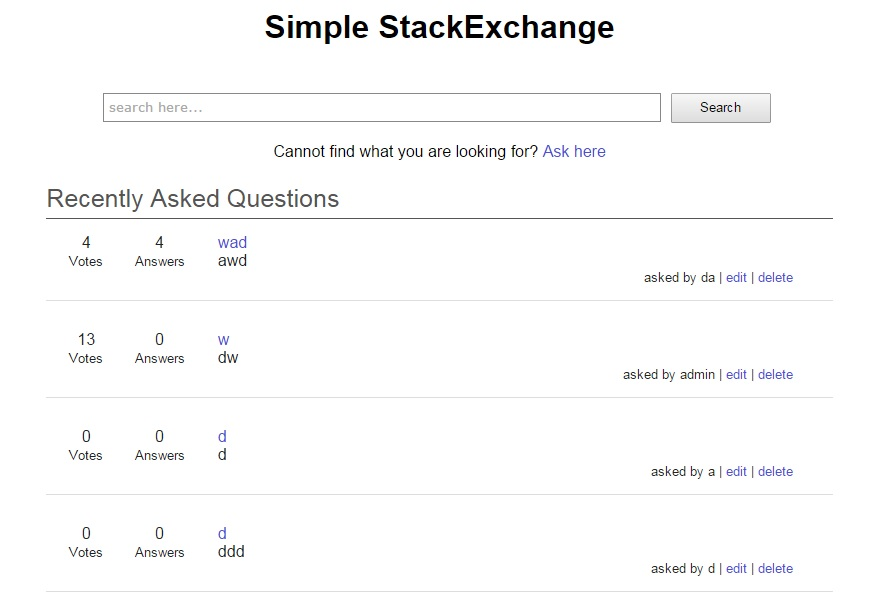
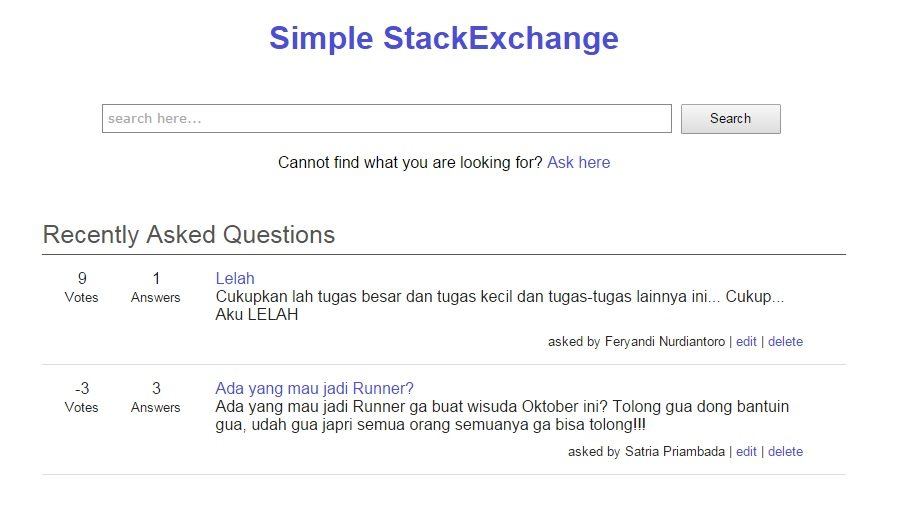
Fixing Bugs, Redirect Page for Convenient UX

diff --git a/css/style.css b/css/style.css
@@ -24,8 +24,13 @@ a {
   	width: 100%;
   	border-bottom: 1px #DDD solid;
 	color: #222;
-	margin-bottom: 15px;
 	box-sizing: border-box;
+}
+
+.question.negative,
+.qview.negative,
+.aview.negative {
+	background-color: #FFD0D0;
 }
 
 .question:hover,
@@ -48,6 +53,8 @@ a {
 	position: relative;
 	float: left;
 	background-image: url('/img/up.png');
+	-webkit-filter: opacity(35%);
+	filter: opacity(35%);
 	background-position: -10px -20px;
 	width: 100%;
 	height: 35px;
@@ -67,6 +74,8 @@ a {
 	position: relative;
 	float: left;	
 	background-image: url('/img/down.png');
+	-webkit-filter: opacity(35%);
+	filter: opacity(35%);
 	background-position: -10px -20px;
 	width: 100%;
 	height: 35px;
@@ -111,6 +120,7 @@ a {
 
 .data > .control {
 	text-align: right;
+	margin-top: 10px;
 	font-size: 13px;
 }
 
@@ -127,6 +137,7 @@ a {
 	width: 100%;
 	padding-top: 5px;
 	padding-bottom: 5px;
+	margin-top: 25px;
 	color: #555;
 	border-bottom: 1px #555 solid;
 	float: left;

diff --git a/model.php b/model.php
@@ -27,24 +27,37 @@
 
 	function makeQuestionView($id) {
 		$question = getQuestionbyId($id);
+		if ( !empty($question) ) {
+			echo("<div class='title'> " . $question['topic'] . " </div>");
 
-		echo("<div class='title'> " . $question['topic'] . " </div>" . 
-			 " <div class='qview'> " .
-			 " 		<div class='votes'>" . 
-			 "			<a class='up_vote' onclick=\"voting(" . $question['id'] . ", 'up', 'question')\"></a>" .
-			 "			<div id='vote_count_q_" . $question['id'] . "' class='vote_count'>" . $question['vote'] . "</div>" .
-			 "			<a class='down_vote' onclick=\"voting(" . $question['id'] . ", 'down', 'question')\"></a>" .
-			 "		</div>" .
-			 " 		<div class='data'> " .
-			 " 			<div class='content'>" . $question['content'] . "</div>" .
-			 " 			<div class='control'>asked by " . $question['name'] . " at " . $question['date_created'] . " | <a class='edit' href='/edit/question/" . $question['id'] . "'> edit </a> | <a class='delete' onclick='deleteQuestion(" . $question['id'] . ")'>delete</a> </div>" .
-			 " 		</div> " .
-			 " </div> ");		
+			if ( $question['vote'] >= 0 ) {
+				echo(" <div class='qview'> ");
+			} else {
+				echo(" <div class='qview negative'> ");
+			}
+
+			echo(" 		<div class='votes'>" . 
+				 "			<a class='up_vote' onclick=\"voting(" . $question['id'] . ", 'up', 'question')\"></a>" .
+				 "			<div id='vote_count_q_" . $question['id'] . "' class='vote_count'>" . $question['vote'] . "</div>" .
+				 "			<a class='down_vote' onclick=\"voting(" . $question['id'] . ", 'down', 'question')\"></a>" .
+				 "		</div>" .
+				 " 		<div class='data'> " .
+				 " 			<div class='content'>" . $question['content'] . "</div>" .
+				 " 			<div class='control'>asked by " . $question['name'] . " at " . $question['date_created'] . " | <a class='edit' href='/edit/question/" . $question['id'] . "'> edit </a> | <a class='delete' onclick='deleteQuestion(" . $question['id'] . ")'>delete</a> </div>" .
+				 " 		</div> " .
+				 " </div> ");	
+		} else {
+			redirectTo("/home");
+		}	
 	}
 
 	function makeAnswerView($answer) {
-		echo(" <div class='aview'> " .
-			 " 		<div class='votes'>" . 
+		if ( $answer['vote'] >= 0 ) {
+			echo(" <div class='aview'> ");
+		} else {
+			echo(" <div class='aview negative'> ");
+		}
+		echo(" 		<div class='votes'>" . 
 			 "			<a class='up_vote' onclick=\"voting(" . $answer['id'] . ", 'up', 'answer')\"></a>" .
 			 "			<div id='vote_count_a_" . $answer['id'] . "' class='vote_count'>" . $answer['vote'] . "</div>" .
 			 "			<a class='down_vote' onclick=\"voting(" . $answer['id'] . ", 'down', 'answer')\"></a>" .

diff --git a/controller.php b/controller.php
@@ -29,6 +29,7 @@
 		} else {
 		    echo "Error: " . $query . "<br>" . mysqli_error($conn);
 		}
+
 	}
 
 	function getListOfQuestion() {
@@ -61,7 +62,7 @@
 	function getQuestionbyId($id) {
 		global $conn;
 
-		$query = "SELECT * FROM question WHERE id = ". $id;
+		$query = "SELECT * FROM question WHERE id = ". $id . " AND is_delete = 0 ";
 		$result = mysqli_query($conn, $query);
 
 		$row = mysqli_fetch_assoc($result);
@@ -171,6 +172,7 @@
 		} else {
 		    echo "Error: " . $query . "<br>" . mysqli_error($conn);
 		}
+
 	}
 
 	function getAnswerbyQId($id_q) {

diff --git a/view/index.php b/view/index.php
@@ -5,6 +5,7 @@
 
 		$results = searchByString($_POST['search']);
 
+		echo "<div class='title'> Here is your search result... </div>";
 		foreach ($results as $question) {
 			makeQuestionPart($question);
 		}

diff --git a/view/add_q.php b/view/add_q.php
@@ -9,7 +9,9 @@
 		$arr['topic'] = $_POST['topic'];
 		$arr['content'] = $_POST['content'];
 
-		insertQuestion($arr);
+		$id = insertQuestion($arr);
+
+		redirectTo("/home");
 
 	} else {
 ?>

diff --git a/view/layout/header.php b/view/layout/header.php
@@ -14,4 +14,5 @@
 	</head>
 	<body>
 		<div id="container">
-			<center><h1>Simple StackExchange</h1></center>
+			<br>
+			<center><a href="/home"><h1>Simple StackExchange</h1></a></center>

diff --git a/view/edit_q.php b/view/edit_q.php
@@ -11,6 +11,8 @@
 
 		updateQuestion($arr, $_POST['id']);
 
+		redirectTo("/question/" . $_POST['id']);
+
 	} else {
 
 		if ( isset($_GET['id']) ) {

diff --git a/view/del_q.php b/view/del_q.php
@@ -4,6 +4,8 @@
 	if ($_SERVER['REQUEST_METHOD'] === 'GET') {
 
 		deleteQuestion($_GET['id']);
+		header("Location: /home");
+		die();
 
 	}
 	

diff --git a/view/view_q.php b/view/view_q.php
@@ -11,6 +11,8 @@
 
 		insertAnswer($arr);
 
+		redirectTo("/question/" . $arr['id_q']);
+
 	} else {
 
 		if ( isset($_GET['id']) ) {
